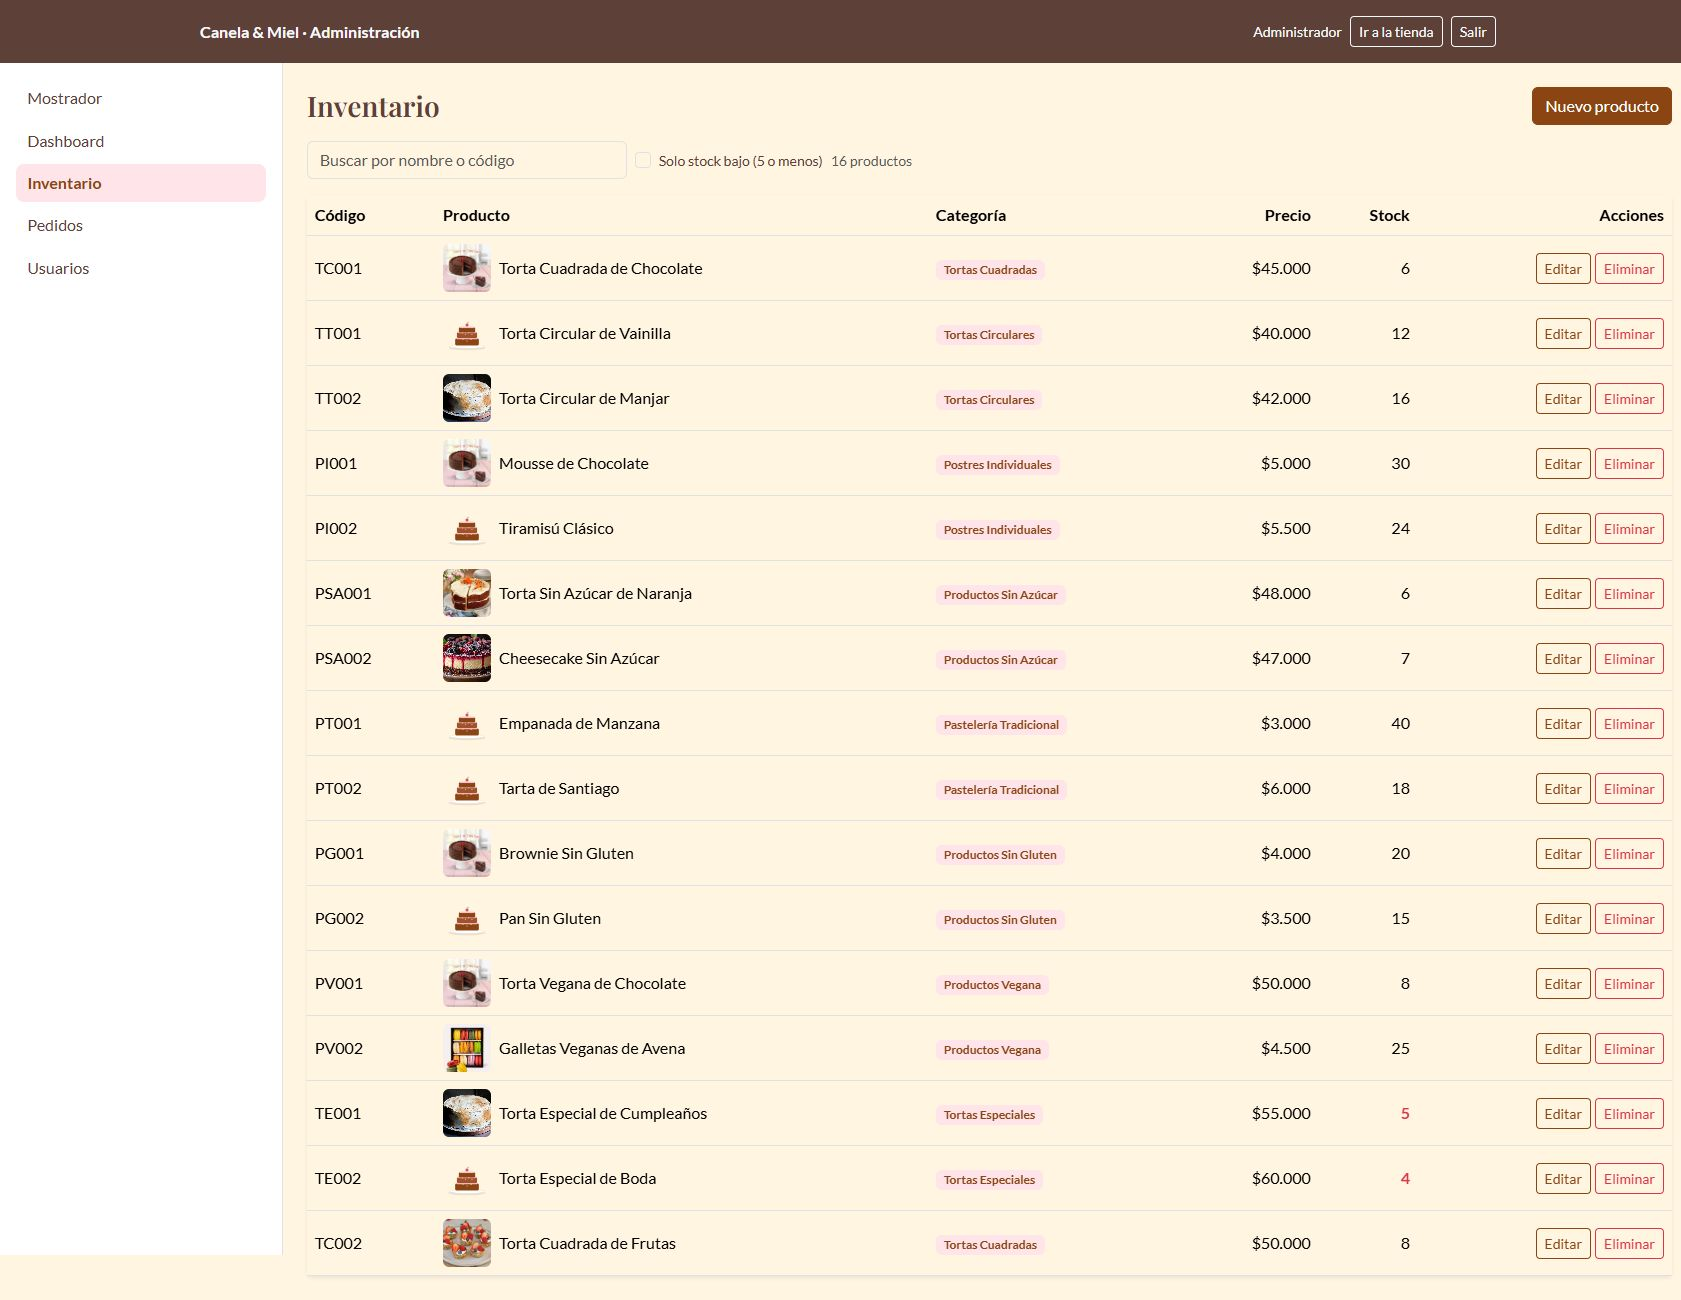
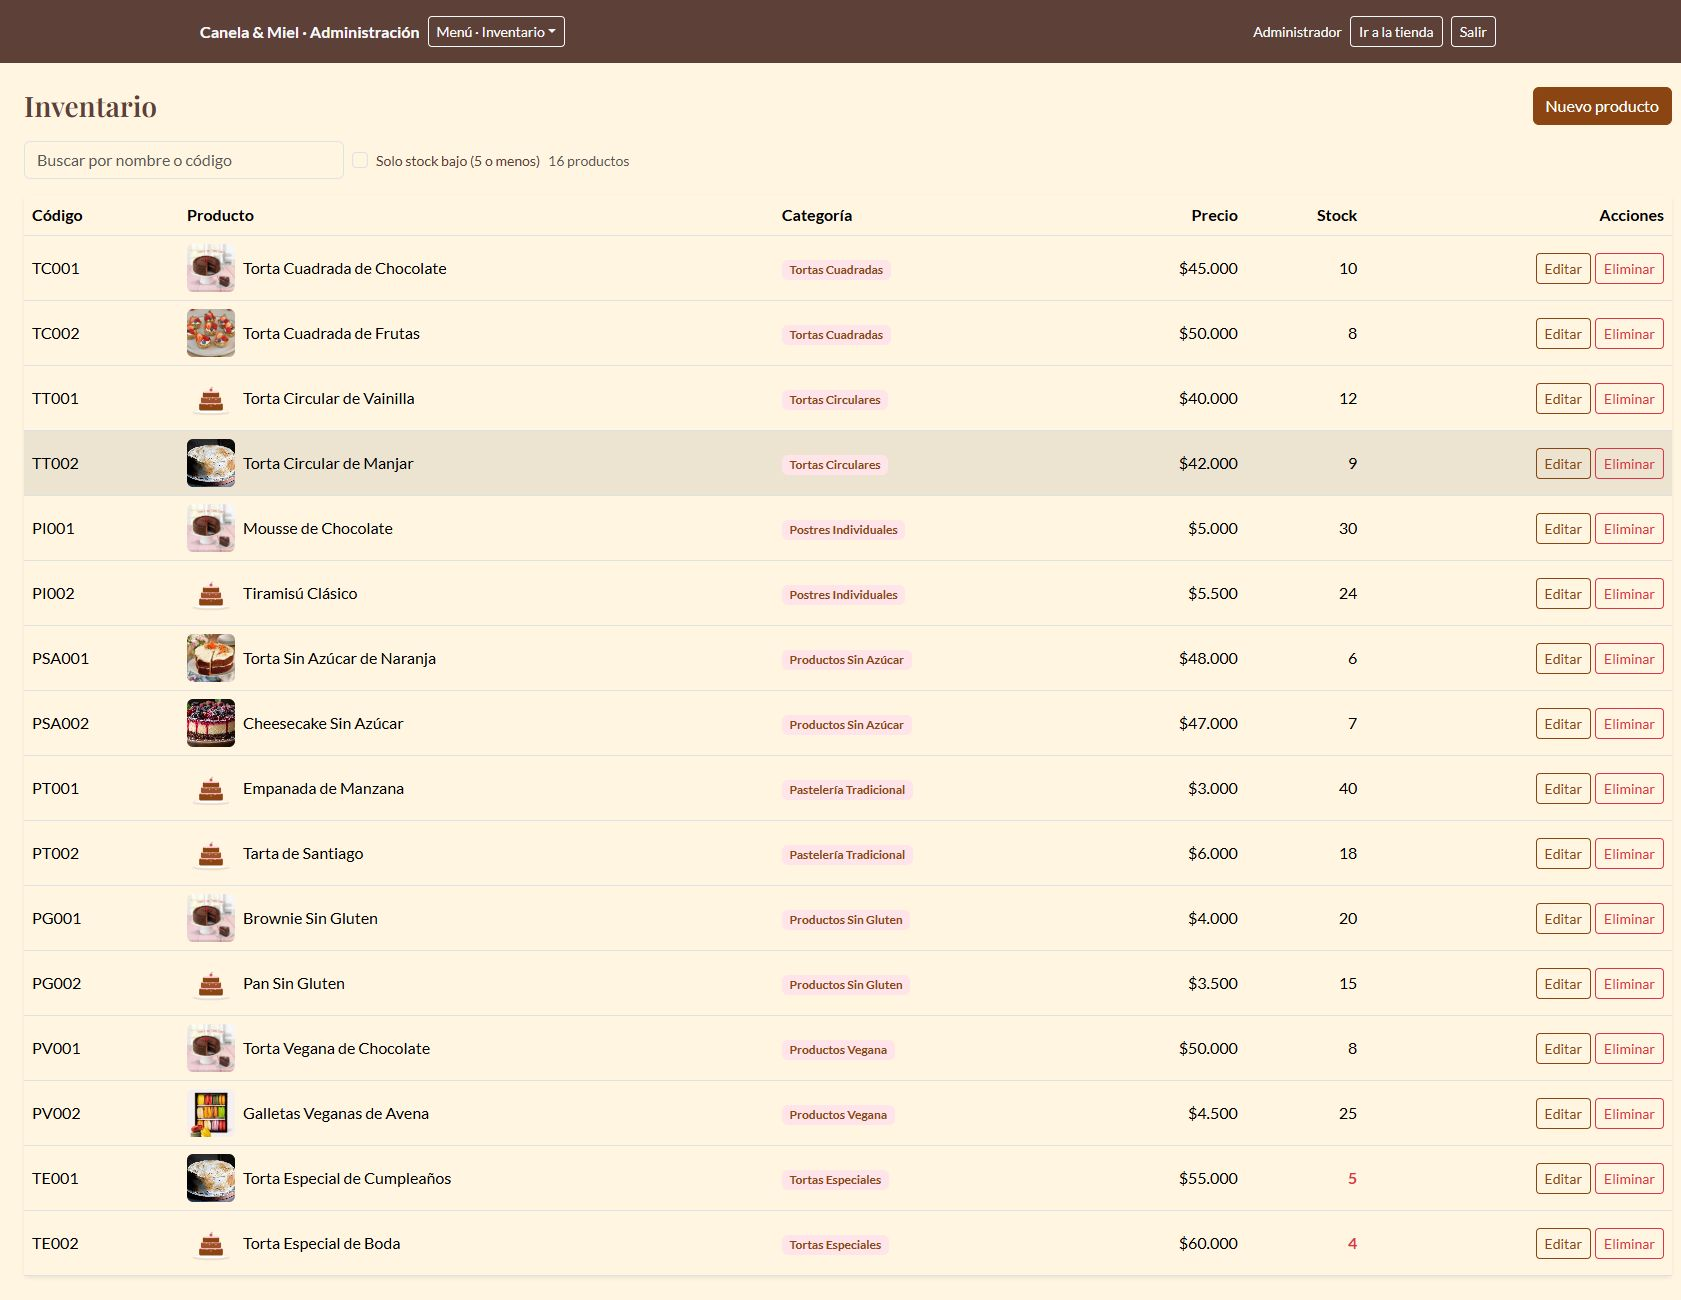
docs: actualiza pruebas y capturas con los datos demo

diff --git a/docs/capturas.md b/docs/capturas.md
@@ -10,16 +10,15 @@ Este archivo no reemplaza el manual: es la lista para que Anaís lo actualice.
 - MySQL, backend y frontend encendidos (`docker compose up -d`, `mvnw spring-boot:run`, `npm run dev`).
 - Usuarios:
   - `admin@canelaymiel.cl` / `Admin1234` (ADMIN).
-  - `cliente@canelaymiel.cl` / `Cliente1234` (CLIENTE Premium).
-  - `maria@duoc.cl` / `Cliente1234` (FELICES50 y correo Duoc).
+  - `cliente@canelaymiel.cl` / `Cliente1234` (CLIENTE Premium, con pedidos demo).
+  - `maria@duoc.cl` / `Cliente1234` (FELICES50, correo Duoc, avatar y preferencias; con pedidos demo).
   - `pedro@correo.cl` / `Cliente1234` (mayor de 50).
   - `mostrador@canelaymiel.cl` / `Cliente1234` (cliente para el POS).
-  - `ui.duoc.19fa88@duoc.cl` / `Clave1234` (cumpleaños hoy, avatar y preferencias).
-- Pedidos: en una **base nueva** la semilla crea 14 pedidos de los últimos 7 días. En la base actual existen
-  el #3 y el #6; usa los que aparezcan en el panel.
+- Pedidos: en una base nueva la semilla crea **14 pedidos de los últimos 7 días**. En la base actual hay 14 pedidos
+  demo más cualquier pedido que crees en el mostrador.
 - Para la boleta impresa: entrar al pedido, pulsar **Ver boleta** y capturar la vista previa de impresión.
 - Las capturas del panel (`/admin`, inventario, pedidos y usuarios) deben tomarse **después** de los últimos
-  cambios del mostrador y las búsquedas.
+  cambios del menú desplegable y las búsquedas.
 
 ## Lista de capturas
 
@@ -30,15 +29,15 @@ Este archivo no reemplaza el manual: es la lista para que Anaís lo actualice.
 | 3 | Búsqueda | `/catalogo` (buscar `tc001`) | Visitante | Un solo producto y el texto "1 producto" |
 | 4 | Filtro por tamaño | `/catalogo` (Hasta 8 porciones) | Visitante | 6 productos y el filtro seleccionado |
 | 5 | Detalle de torta | `/producto/1` | Visitante | Código, descripción, porciones, mensaje, compartir y relacionados |
-| 6 | Carrito | `/carrito` | `ui.duoc` | Mensaje de la torta y resumen con la torta gratis |
-| 7 | Checkout | `/checkout` | `ui.duoc` | Fecha de entrega, dirección, teléfono, cupón y resumen |
-| 8 | Confirmación | `/confirmacion` (después de comprar) | `ui.duoc` | Fecha, mapa, boleta y botones |
-| 9 | Boleta impresa | Confirmación → Ver boleta | `ui.duoc` | Vista previa de impresión solo con la boleta |
-| 10 | Seguimiento | `/seguimiento` | `ui.duoc` | Stepper de 5 estados, entrega estimada, dirección y mapa |
+| 6 | Carrito | `/carrito` | `maria@duoc.cl` | Mensaje de la torta y resumen con el 10% de FELICES50 |
+| 7 | Checkout | `/checkout` | `maria@duoc.cl` | Fecha de entrega, dirección, teléfono, cupón y resumen |
+| 8 | Confirmación | `/confirmacion` (después de comprar) | `maria@duoc.cl` | Fecha, mapa, boleta y botones |
+| 9 | Boleta impresa | Confirmación → Ver boleta | `maria@duoc.cl` | Vista previa de impresión solo con la boleta |
+| 10 | Seguimiento | `/seguimiento` | `maria@duoc.cl` | Stepper de 5 estados, entrega estimada, dirección y mapa |
 | 11 | Registro | `/registro` | Visitante | Fecha de nacimiento, código promocional y aviso FELICES50 |
 | 12 | Inicio de sesión | `/login` | Visitante | Formulario limpio |
-| 13 | Perfil | `/perfil` | `ui.duoc` | Datos, avatar, beneficios, contraseña, preferencias e historial |
-| 14 | Edición del perfil | `/perfil` → Editar | `ui.duoc` | Formulario con los 6 avatares y vista previa |
+| 13 | Perfil | `/perfil` | `maria@duoc.cl` | Avatar grande, beneficios y paneles desplegables (preferencias, seguridad, historial) |
+| 14 | Edición del perfil | `/perfil` → Editar | `maria@duoc.cl` | Formulario con los 6 avatares y vista previa |
 | 15 | Panel admin | `/admin` | `admin@...` | KPIs, gráfico, últimos pedidos y stock bajo |
 | 16 | Mostrador (POS) | `/admin/mostrador` | `admin@...` | Productos, pedido en curso, cliente, retiro y total |
 | 17 | Inventario | `/admin/inventario` | `admin@...` | Tabla con búsqueda y filtro de stock bajo |
@@ -52,7 +51,7 @@ Este archivo no reemplaza el manual: es la lista para que Anaís lo actualice.
 ## Documento de cobertura (Anaís)
 
 1. En `frontend/`: `npm run test:coverage` (si no hay Chrome, usar Edge con `CHROME_BIN`).
-2. Abrir `frontend/coverage/index.html` y capturar el resumen: **52 pruebas** y **93,65 % de sentencias / 88,57 % de ramas / 96,36 % de líneas**.
+2. Abrir `frontend/coverage/index.html` y capturar el resumen: **54 pruebas** y **93,79 % de sentencias / 89,09 % de ramas / 96,46 % de líneas**.
 3. Agregar que el backend tiene **21 pruebas** (`mvn clean verify`).
 4. El informe cubre componentes (`FormField`, `ProductCard`, `Avatar`), el carrito con `localStorage`, los cálculos de descuentos, los filtros, los validadores y las utilidades.
 

diff --git a/docs/ers/ERS-Canela-y-Miel.md b/docs/ers/ERS-Canela-y-Miel.md
@@ -338,11 +338,11 @@ La API se documenta en detalle en `docs/integracion/documento-integracion.md` y 
 
 ### 10.2 Frontend
 
-**52 pruebas** con Jasmine + Karma, con mocks de `localStorage` y espías de funciones:
+**54 pruebas** con Jasmine + Karma, con mocks de `localStorage` y espías de funciones:
 
 | Archivo | Qué cubre |
 |---|---|
-| `test/components/` | `FormField`, `ProductCard` y `Avatar` (props, render y eventos) |
+| `test/components/` | `FormField`, `ProductCard`, `Avatar` y `PanelDesplegable` (props, render, eventos y apertura del panel) |
 | `test/context/CartContext.spec.jsx` | Carrito, `localStorage` y mensaje por producto |
 | `test/utils/calcularTotales.spec.js` | Envío, Premium, 50%, FELICES50, cupón, solo el mayor y torta gratis |
 | `test/utils/descuentos.spec.js` | Edad, cumpleaños, correo institucional y beneficios del usuario |
@@ -393,7 +393,7 @@ Usuarios de prueba:
 |---|---|---|
 | EP2 — Proyecto con framework JS (IE2.1.1) | React + Vite + Router, estructura por capas | Cumplido |
 | EP2 — Componentes con props/estados y Bootstrap (IE2.1.2) | Componentes del admin, `NavBar`, `ProtectedRoute`, grillas y tablas responsivas | Cumplido |
-| EP2 — 10 pruebas unitarias (IE2.2.x) | `frontend/test/` | Cumplido: 52 pruebas |
+| EP2 — 10 pruebas unitarias (IE2.2.x) | `frontend/test/` | Cumplido: 54 pruebas |
 | EP2 — Proceso de testeo y cobertura (IE2.3.x) | Configuración Karma + reporte | Cumplido: `npm run test:coverage` |
 | EP3 — Backend, base de datos, lógica y modelos (IE3.1.1) | Entidades, servicios y MySQL | Cumplido |
 | EP3 — API REST con CRUD y Swagger (IE3.2.1) | 33 operaciones documentadas | Cumplido |
